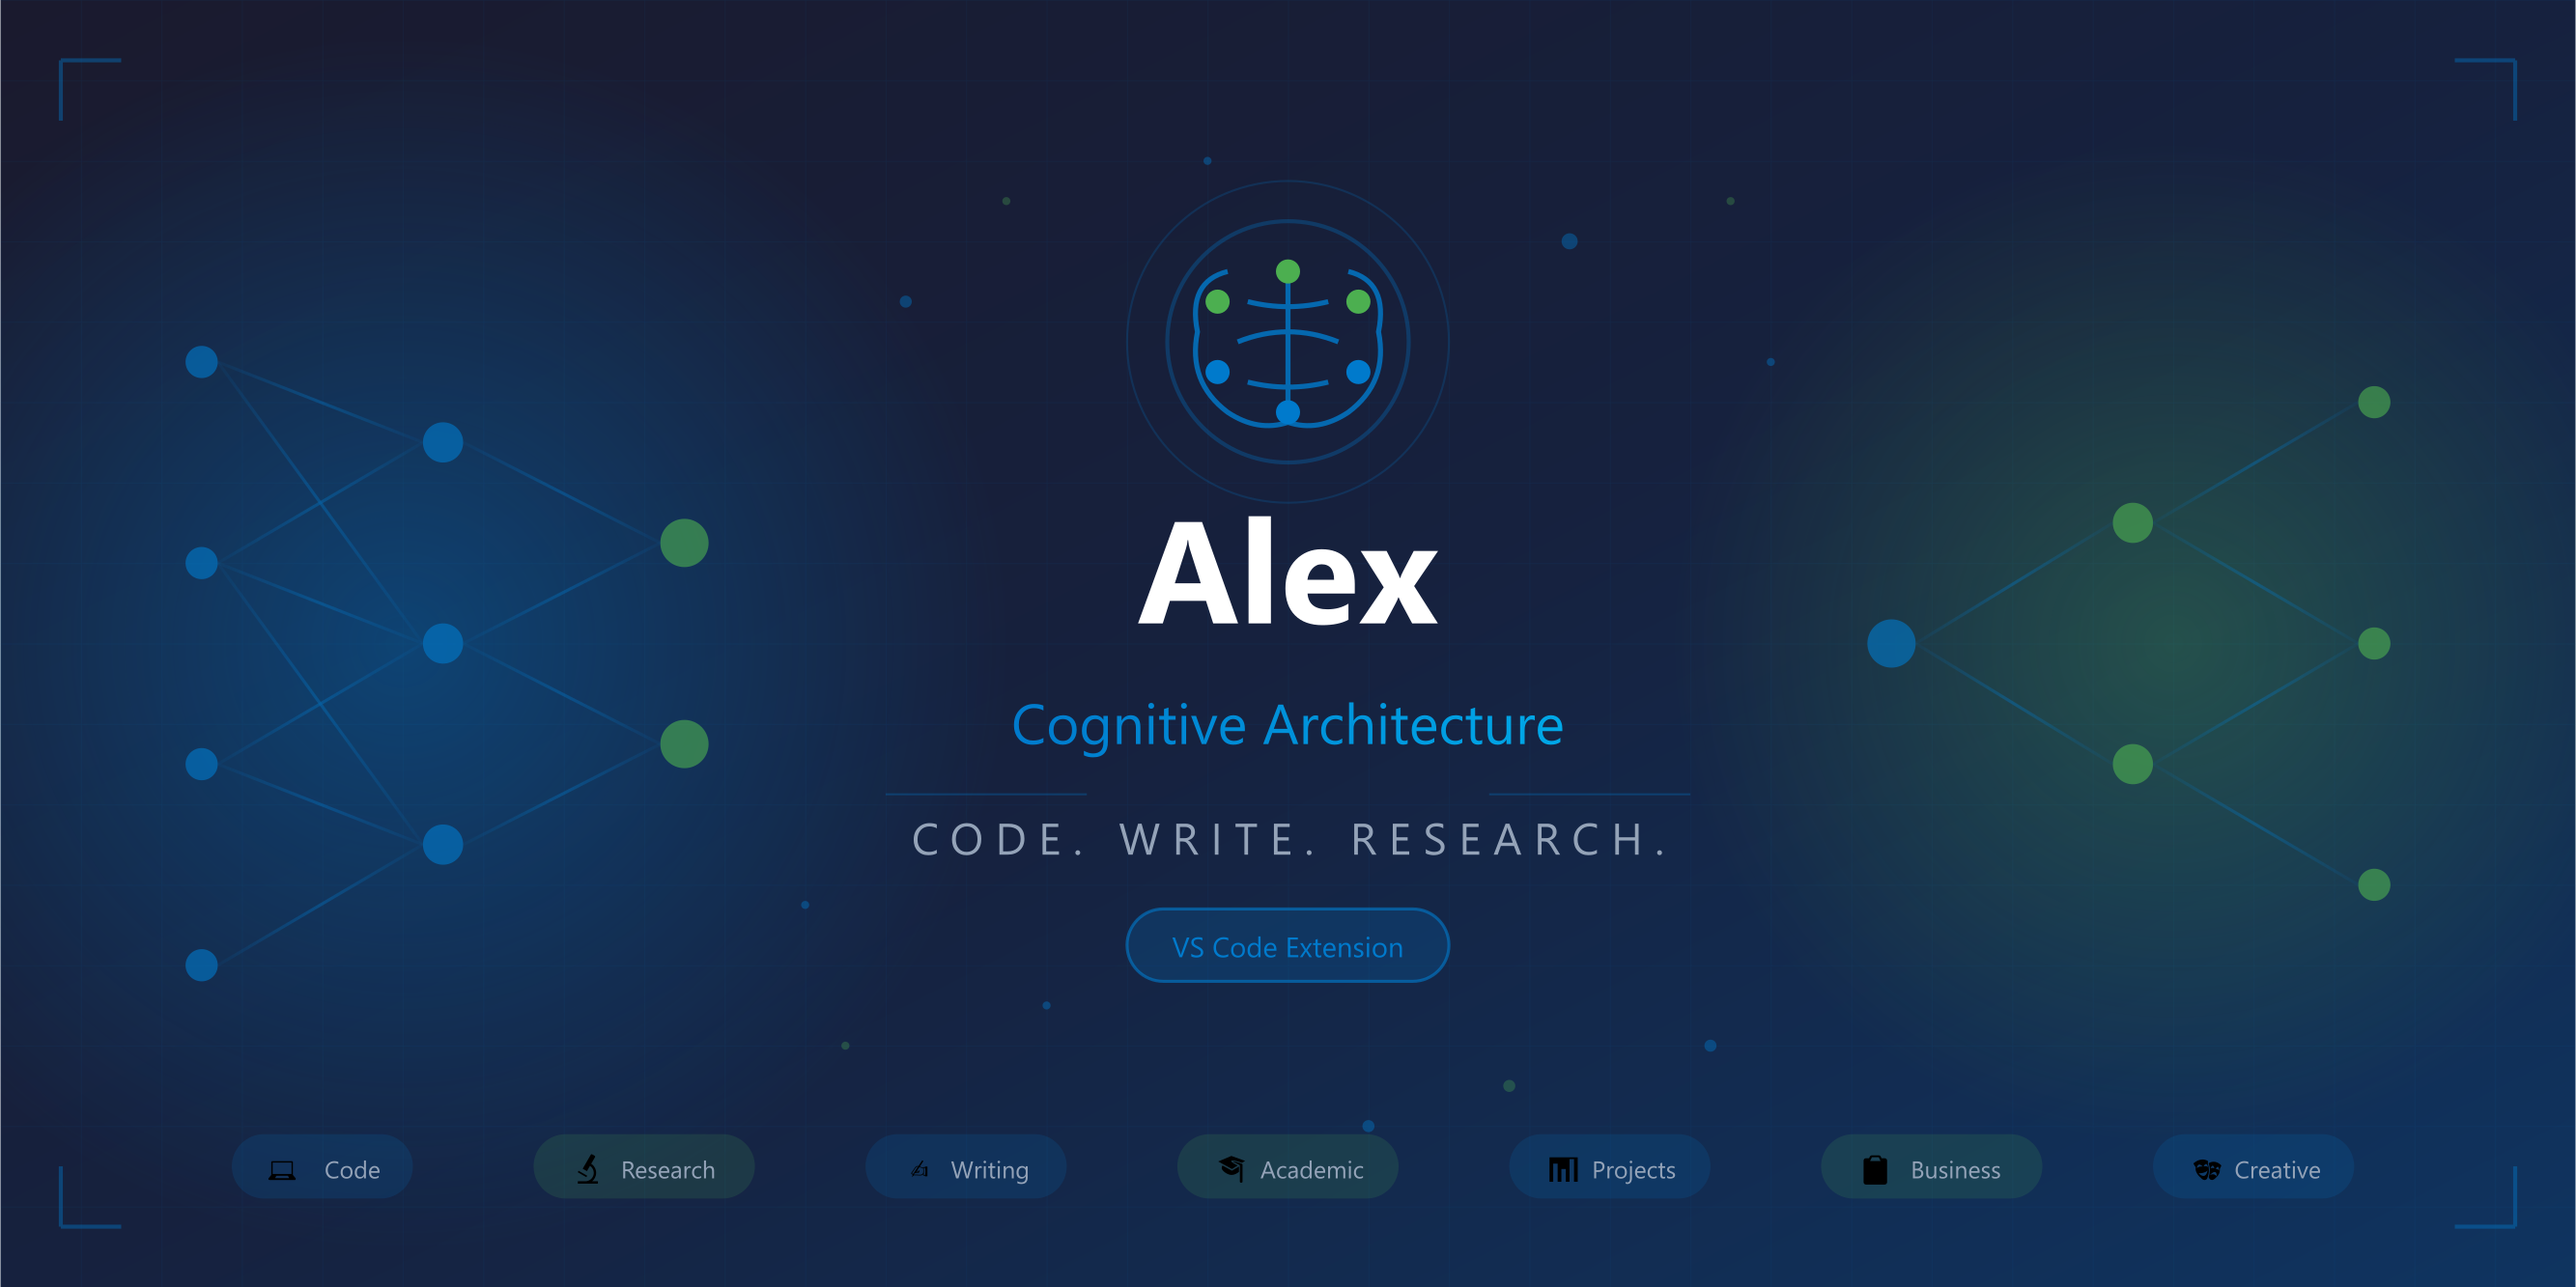
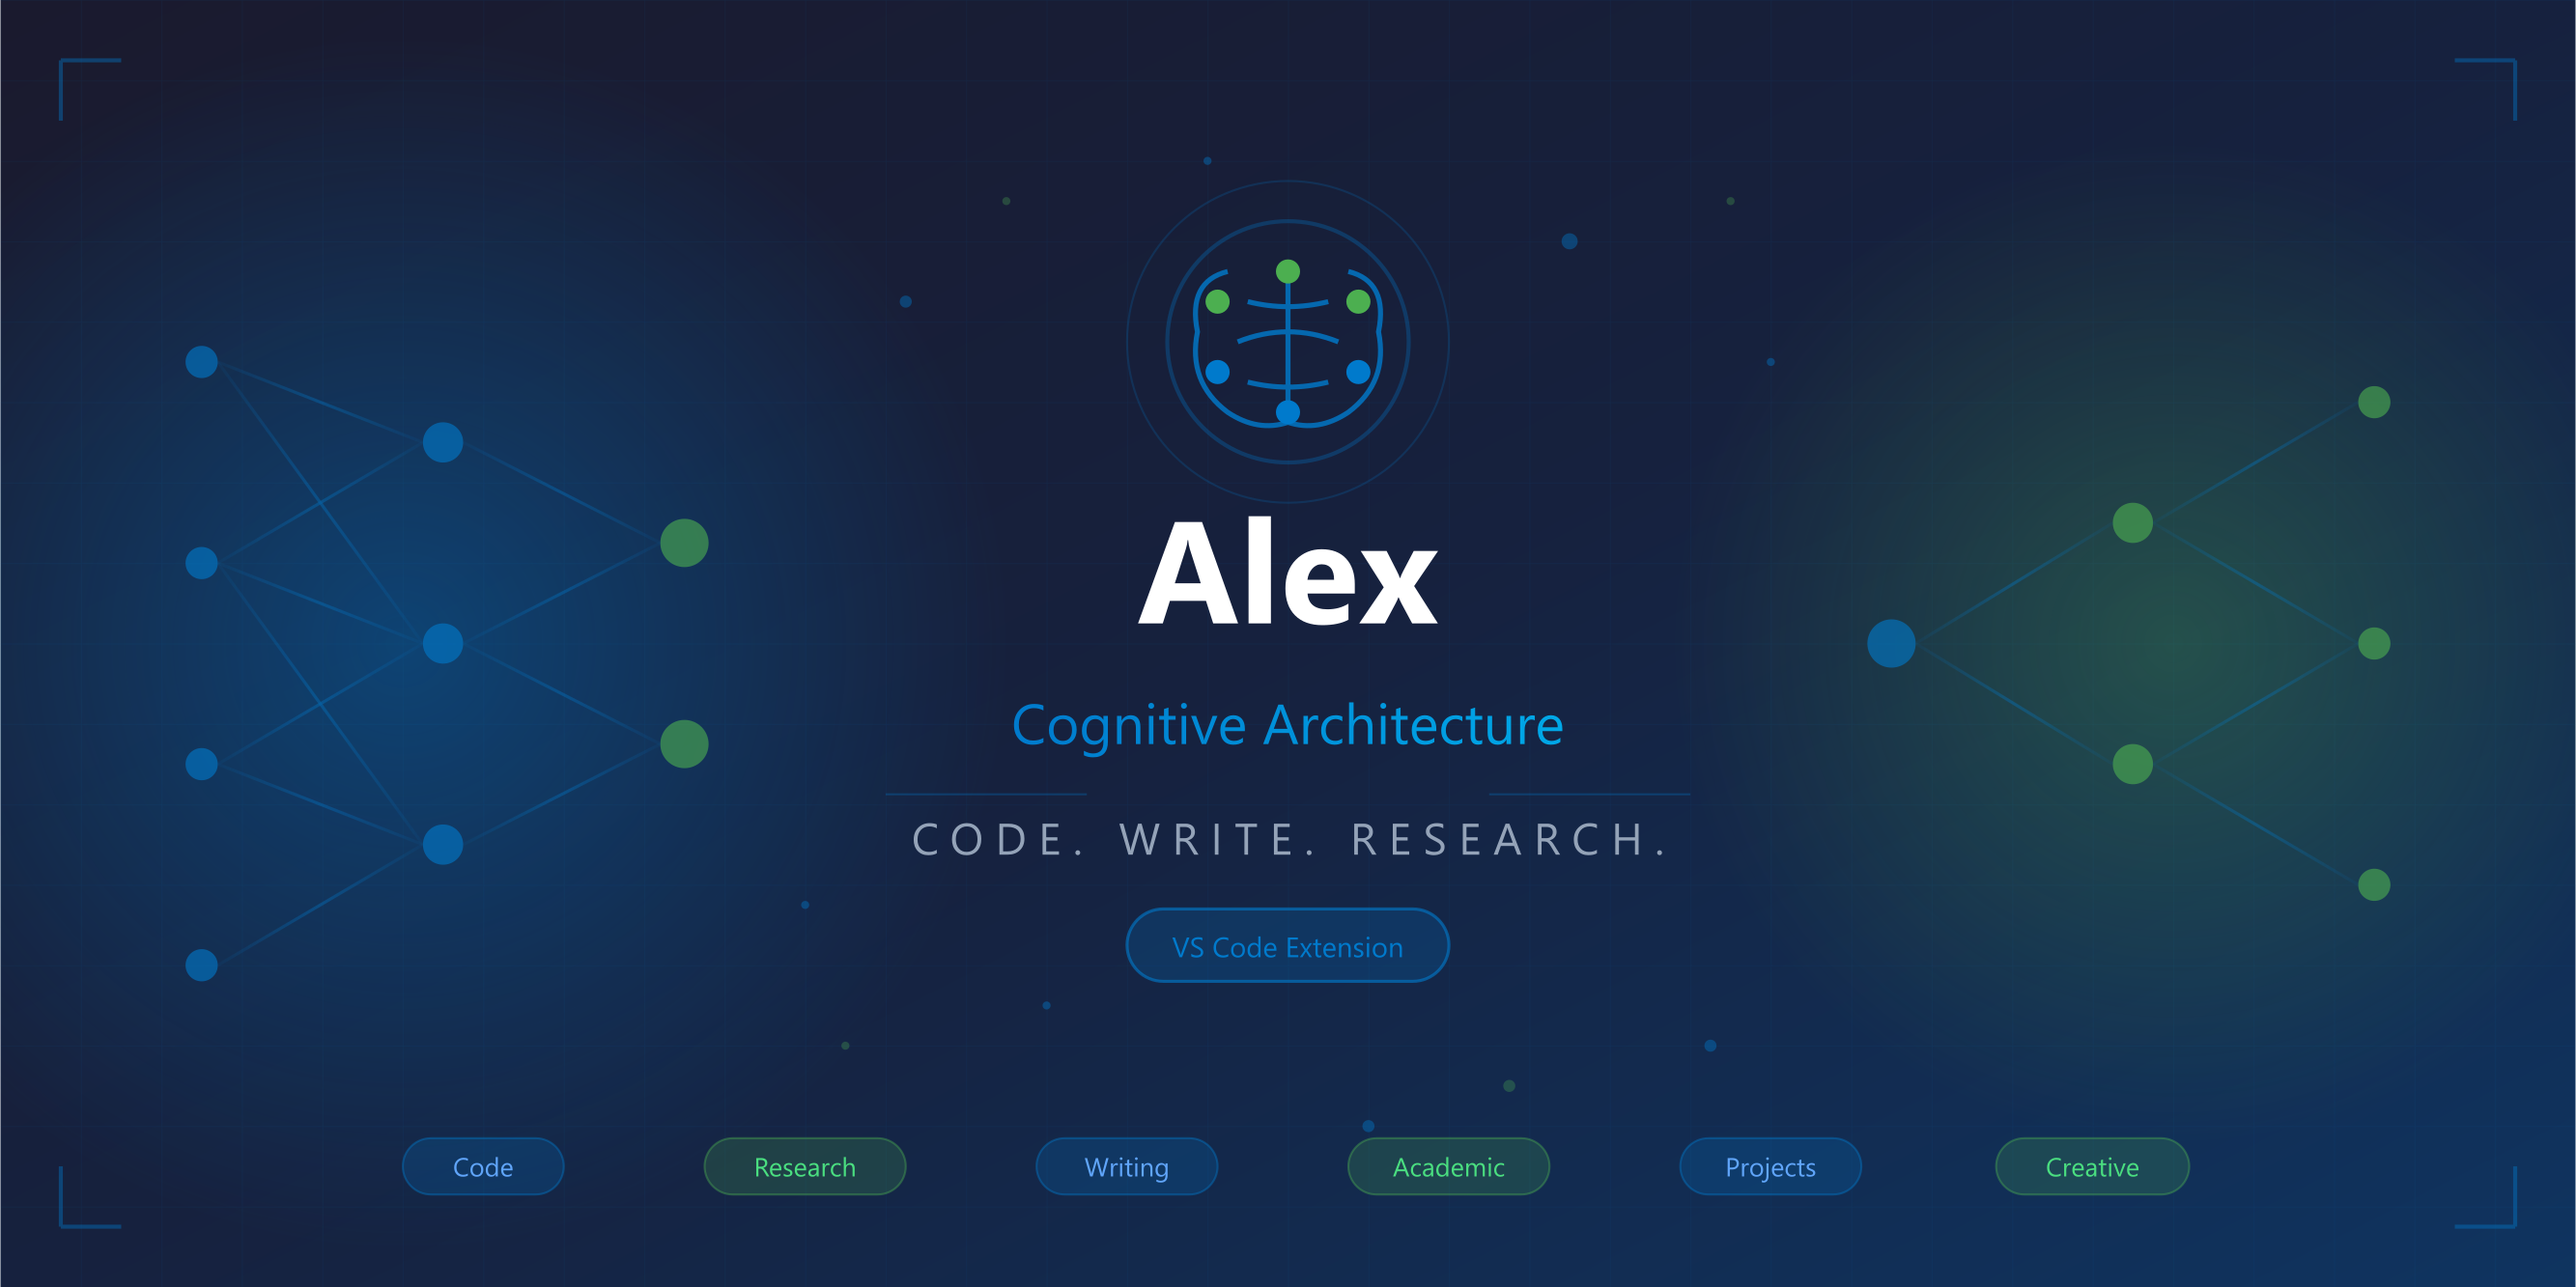
fix: Replace emoji badges with text-only for PNG compatibility
- Remove emoji icons that render poorly in sharp-cli conversion
- Update badges to clean text-only design with borders
- Regenerate banner.png from updated SVG
- Update image-handling skill with correct sharp-cli syntax

Changed region(s): [[0.3735, 0.8612, 0.9025, 0.9535], [0.1245, 0.8612, 0.3423, 0.9535]]

diff --git a/.github/skills/image-handling/SKILL.md b/.github/skills/image-handling/SKILL.md
@@ -19,10 +19,15 @@ applyTo: "**/*.png,**/*.jpg,**/*.webp,**/*image*,**/*convert*"
 ## Conversion Commands
 
 ```powershell
-# SVG to PNG (sharp/node)
-npx sharp-cli -i input.svg -o output.png -w 512 -h 512
+# SVG to PNG using sharp-cli (recommended)
+# --density sets DPI for vector rendering (150 = crisp text)
+npx sharp-cli -i input.svg -o output-folder/ --density 150 -f png
 
-# ImageMagick
+# Note: output must be a directory, filename preserved from input
+npx sharp-cli -i banner.svg -o assets/ --density 150 -f png
+# Creates: assets/banner.png
+
+# ImageMagick (if installed)
 magick input.svg -resize 512x512 output.png
 magick input.png -quality 85 output.jpg
 
@@ -31,6 +36,12 @@ foreach ($size in 16,32,64,128,256,512) {
   magick input.svg -resize ${size}x${size} "icon-$size.png"
 }
 ```
+
+## SVG to PNG Tips
+
+- **Emojis don't convert well** - Use text-only or SVG icons
+- **Use `--density 150+`** for crisp text rendering
+- **Check file size** - README banners should be < 500KB
 
 ## GitHub README Images
 
